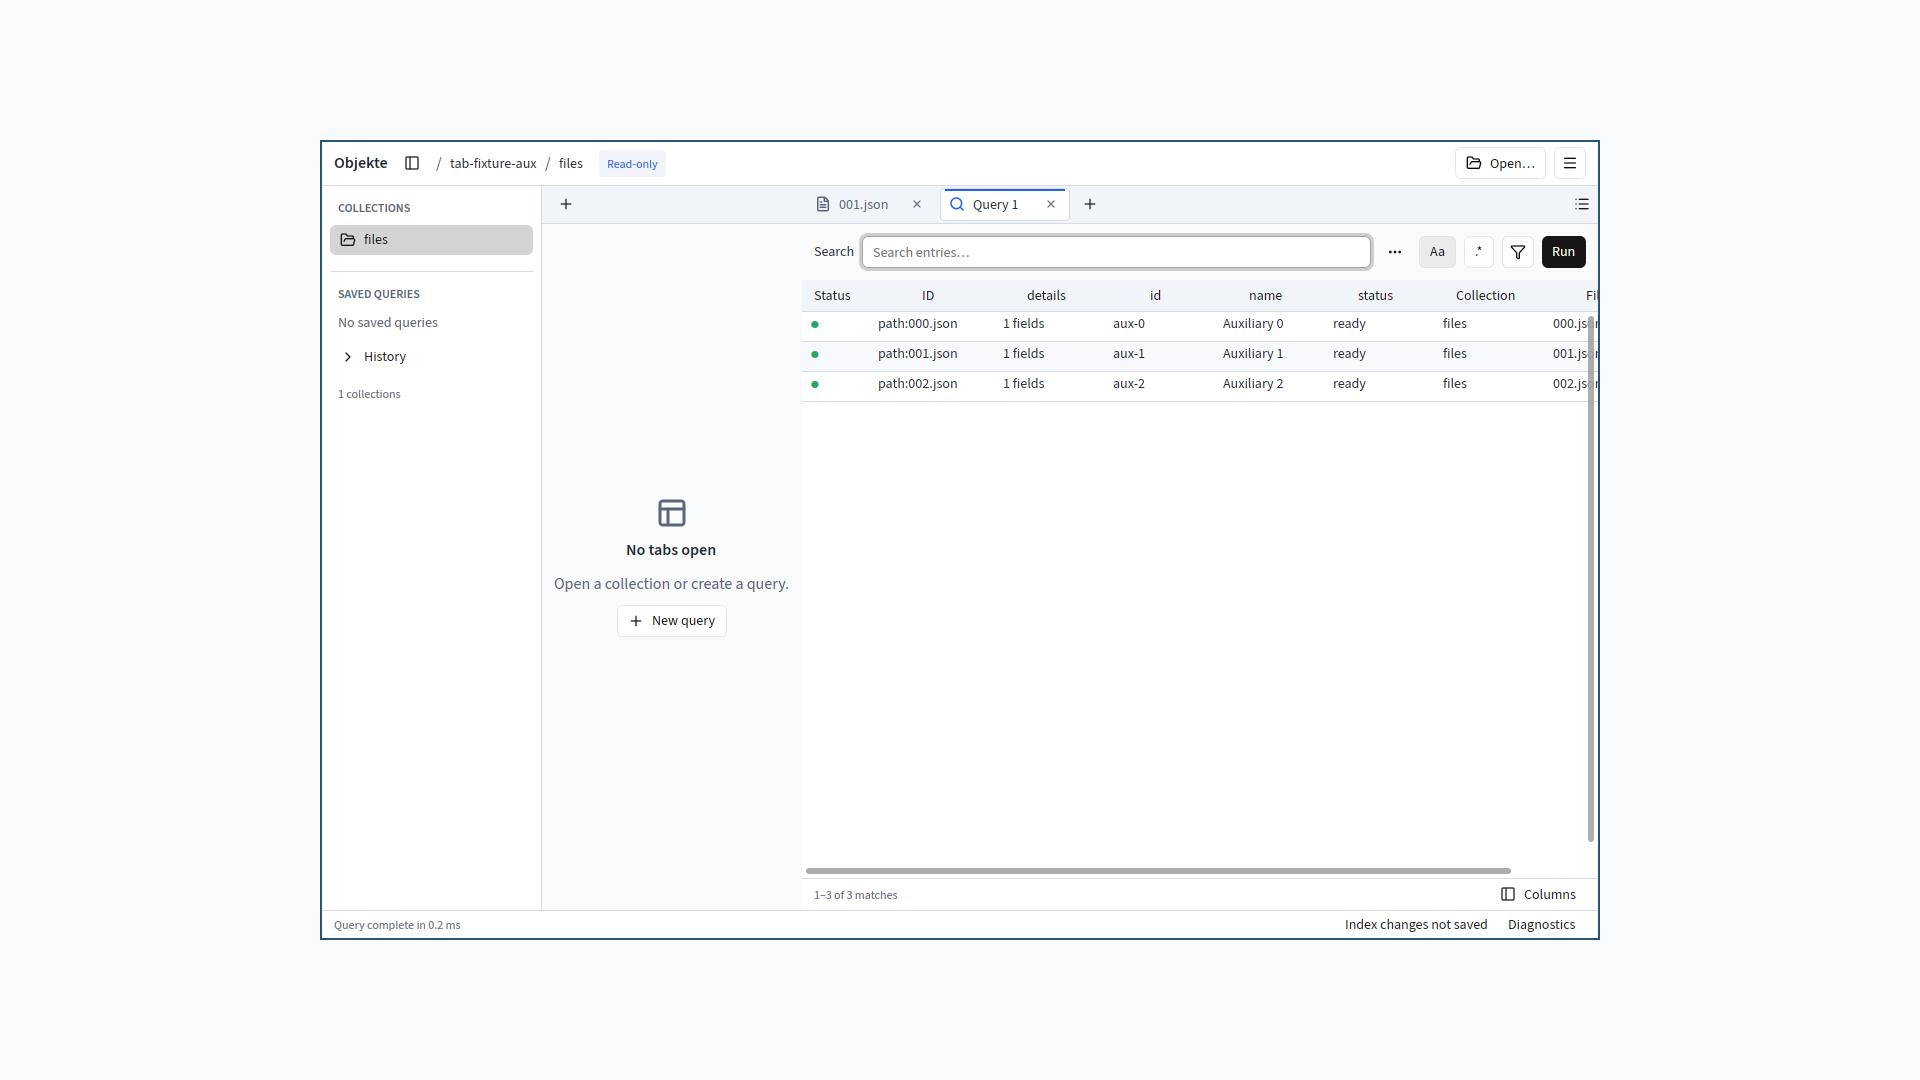
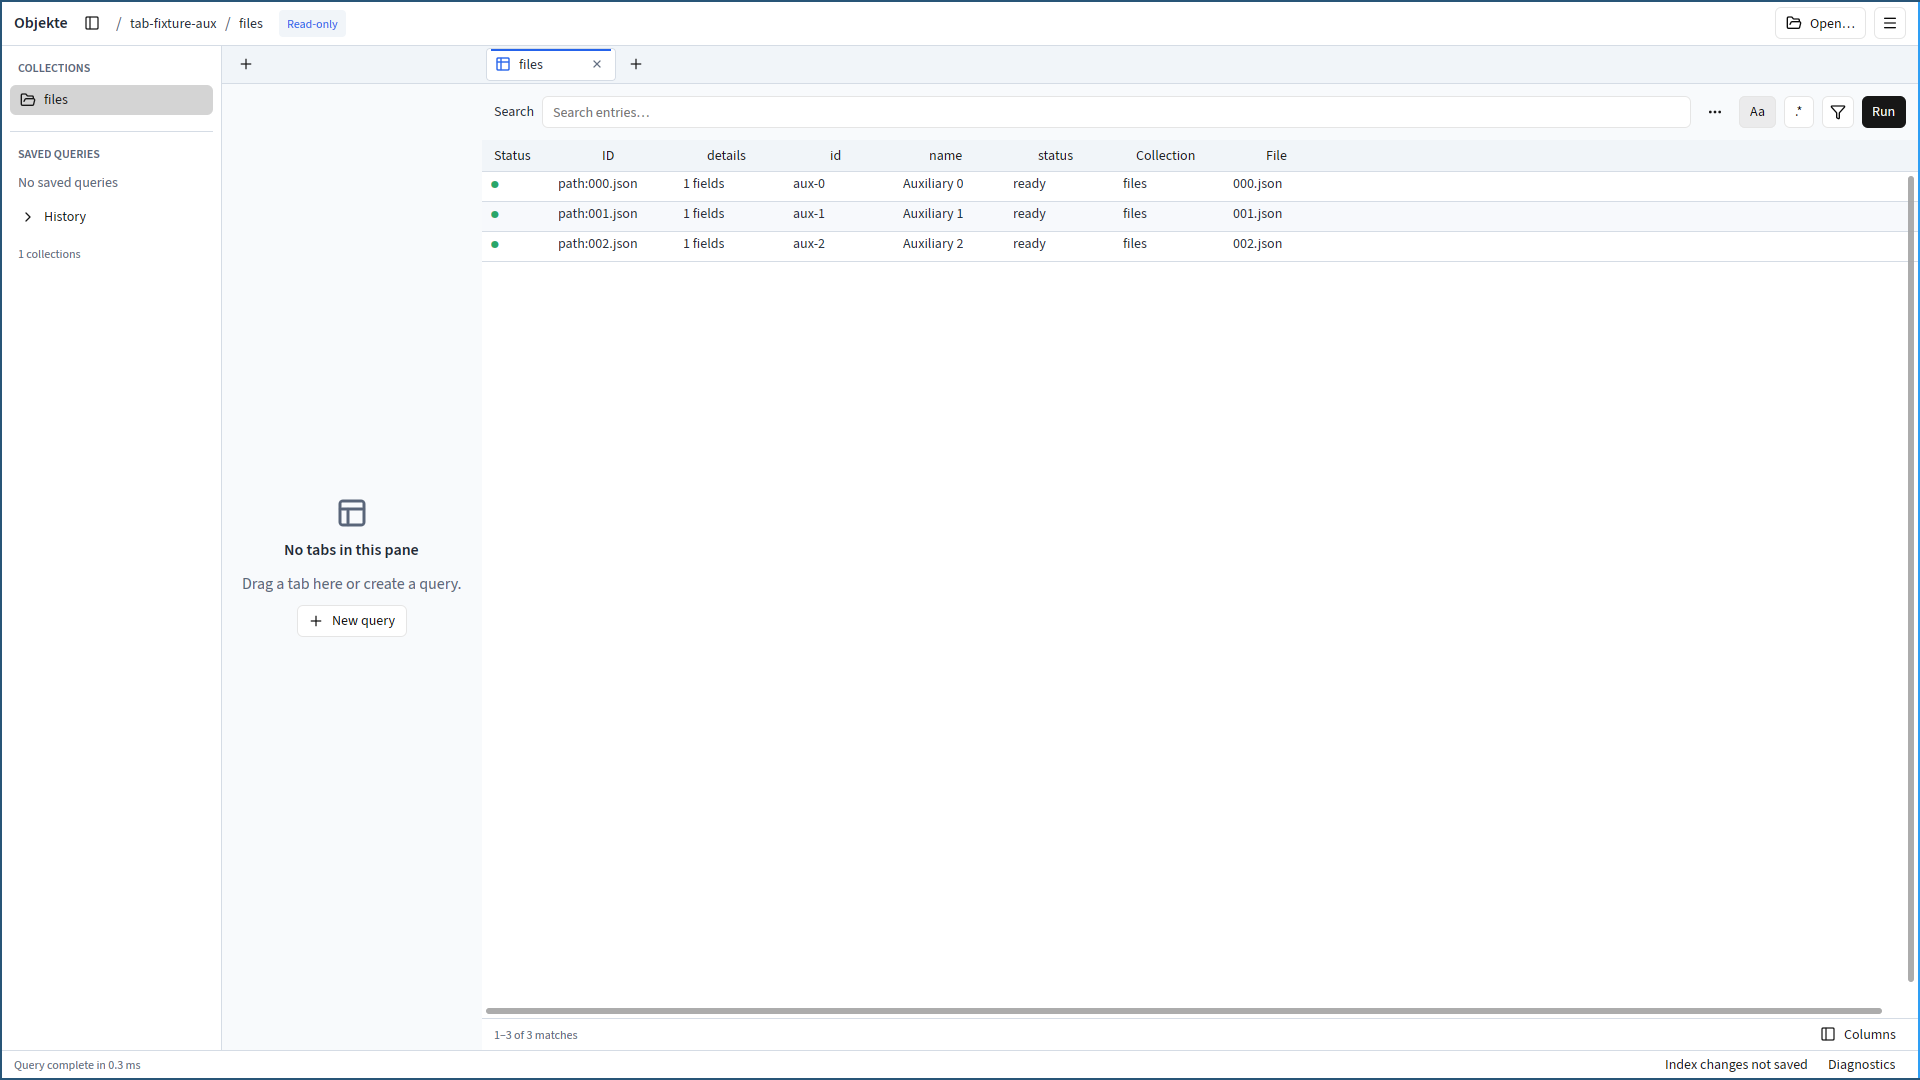
Clarify empty pane drop target

diff --git a/crates/desktop/src/ui/render.rs b/crates/desktop/src/ui/render.rs
@@ -1919,6 +1919,7 @@ impl DesktopView {
             Some(TabId::Record(id)) => self.render_record_snapshot(id, cx).into_any_element(),
             None => {
                 let colors = palette(self.state.dark);
+                let other_has_tabs = !self.state.workspace.group(pane.other()).tabs.is_empty();
                 div()
                     .flex()
                     .flex_col()
@@ -1932,9 +1933,17 @@ impl DesktopView {
                         div()
                             .text_color(rgb(colors.text))
                             .font_weight(FontWeight::SEMIBOLD)
-                            .child("No tabs open"),
+                            .child(if other_has_tabs {
+                                "No tabs in this pane"
+                            } else {
+                                "No tabs open"
+                            }),
                     )
-                    .child("Open a collection or create a query.")
+                    .child(if other_has_tabs {
+                        "Drag a tab here or create a query."
+                    } else {
+                        "Open a collection or create a query."
+                    })
                     .child(
                         Button::new(format!("workspace-empty-new-query-{pane:?}"))
                             .icon(AssetIconName::Plus)
